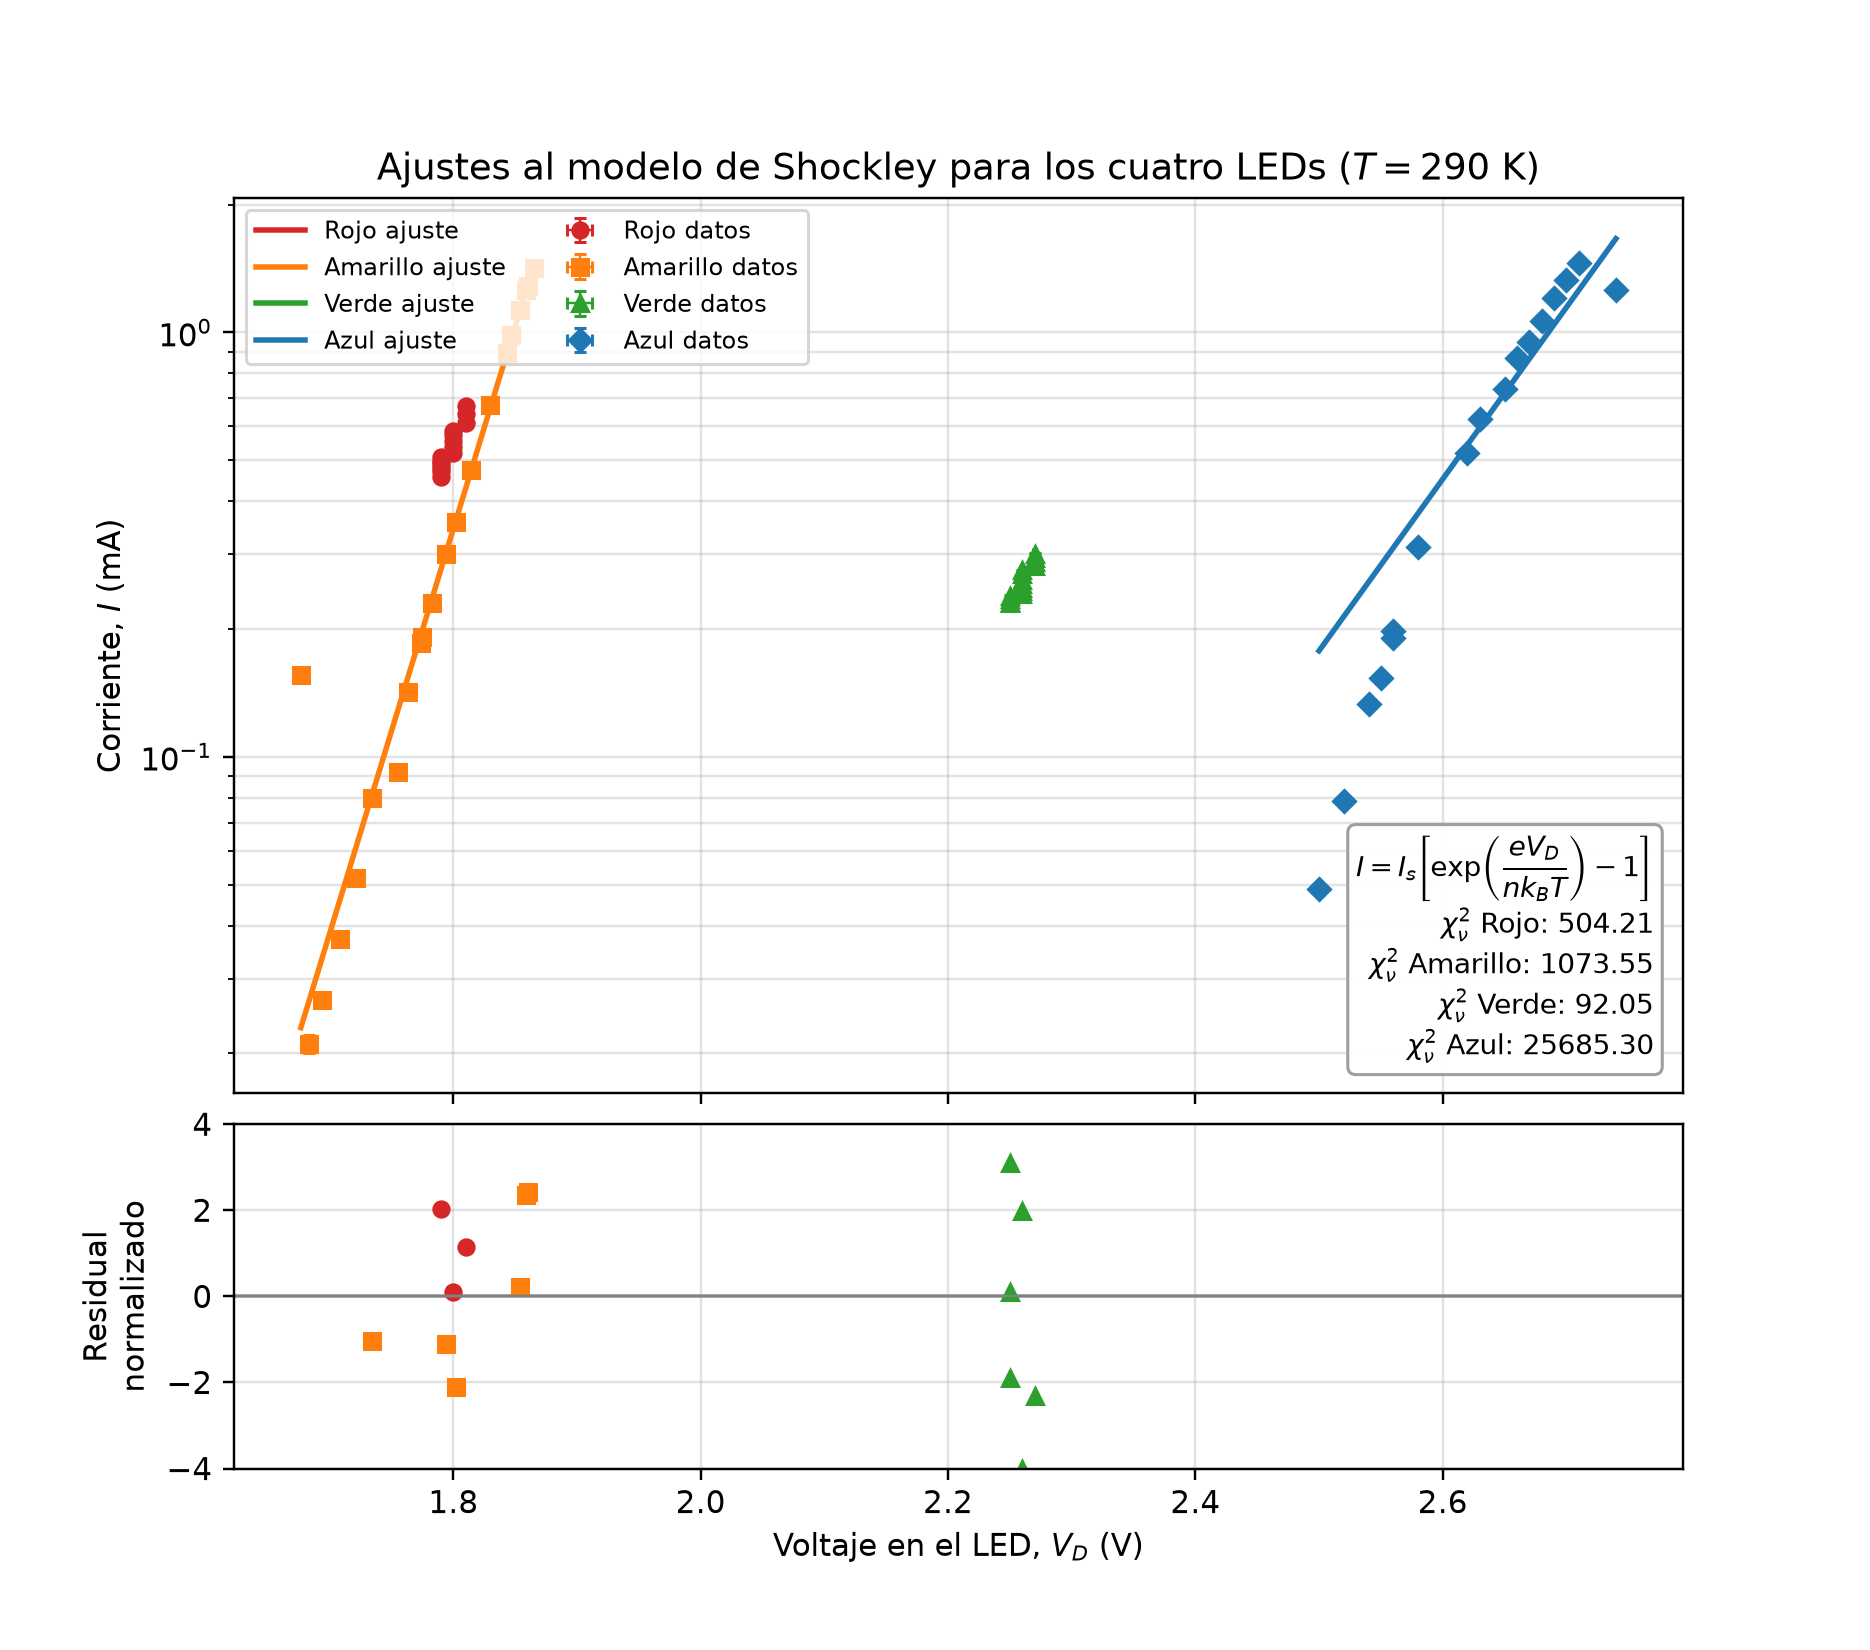
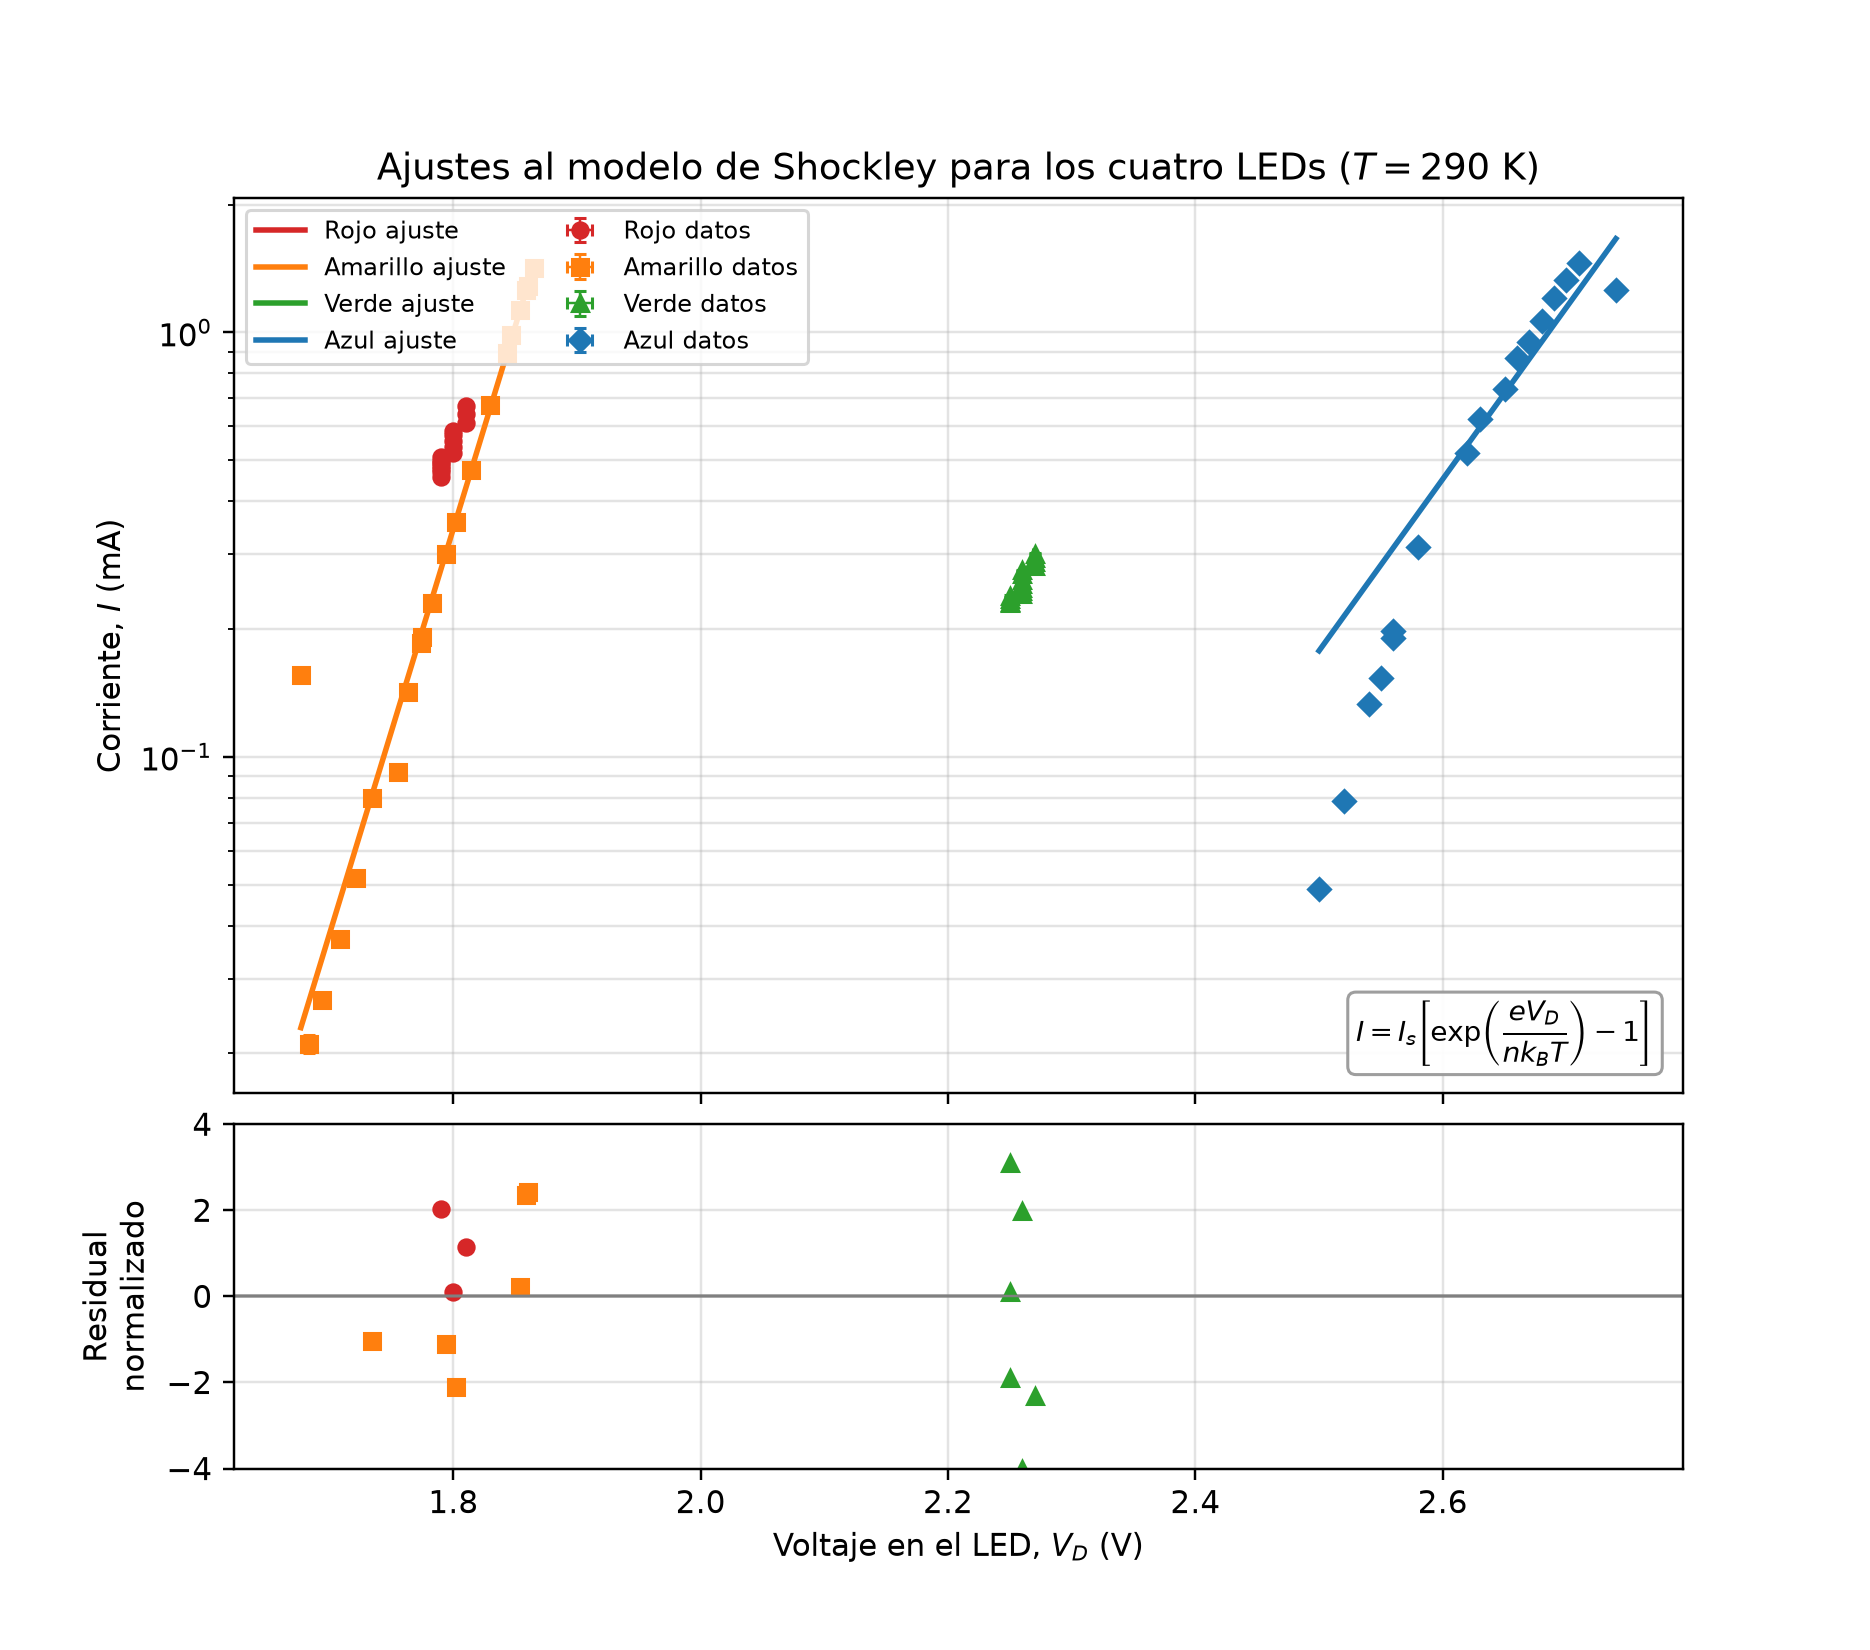
Remove chi-squared values from combined Shockley plot.

Changed region(s): [[0.7134, 0.4945, 0.8995, 0.6491]]

diff --git a/graficas_combinadas.py b/graficas_combinadas.py
@@ -161,11 +161,7 @@ def grafica_shockley_combinada(series_data: dict) -> Path:
     ax.grid(True, which="both", alpha=0.35)
     ax.legend(fontsize=8, ncol=2, loc="upper left")
 
-    texto = (
-        r"$I = I_s\left[\exp\!\left(\dfrac{eV_D}{n k_B T}\right)-1\right]$"
-        + "\n"
-        + "\n".join(rf"$\chi_\nu^2$ {n}: {fits[n][0]['chi2_nu']:.2f}" for n in fits)
-    )
+    texto = r"$I = I_s\left[\exp\!\left(\dfrac{eV_D}{n k_B T}\right)-1\right]$"
     ax.text(
         0.98,
         0.03,
